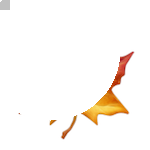
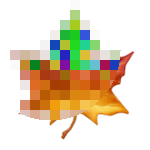
updated censor

diff --git a/censorColorPicker.cpp b/censorColorPicker.cpp
@@ -24,47 +24,42 @@ double PointDistance(PixelPoint a, PixelPoint b) {
   return sqrt(diff_x * diff_x + diff_y * diff_y);
 }
 
-void CensorColorPicker::computeAvg(PNG image, unsigned int xStart, unsigned int yStart) {
+HSLAPixel CensorColorPicker::computeAvg(PNG& image, unsigned int xStart, unsigned int yStart) {
   double hue = 0;
   double sat = 0;
   double lum = 0;
   double alp = 0;
-  // cout << image.getPixel(xStart,yStart) -> h << endl;
-  for (unsigned int x = xStart; x < blockwidth; x++) {
-    for (unsigned int y = yStart; y < blockwidth; y++) {
+  for (unsigned int x = xStart; x < xStart + blockwidth; x++) {
+    for (unsigned int y = yStart; y < yStart + blockwidth; y++) {
       hue += image.getPixel(x, y)->h;
       sat += image.getPixel(x, y)->s;
       lum += image.getPixel(x, y)->l;
       alp += image.getPixel(x, y)->a;
     }
   }
-  hue = hue / (blockwidth^2);
-  sat = sat / (blockwidth^2);
-  lum = lum / (blockwidth^2);
-  alp = alp / (blockwidth^2);
-
-  // cout << hue << endl;
-  // cout << sat << endl;
-  // cout << lum << endl;
-  // cout << alp << endl;
+  hue = hue / (blockwidth * blockwidth);
+  sat = sat / (blockwidth * blockwidth);
+  lum = lum / (blockwidth * blockwidth);
+  alp = alp / (blockwidth * blockwidth);
 
   HSLAPixel *pixel = new HSLAPixel(hue, sat, lum, alp);
-  newPixel = *pixel;
+  HSLAPixel temp;
+  temp = *pixel;
   delete pixel;
+  return temp;
+
 }
 
-void CensorColorPicker::mosaic(PNG image) {
+void CensorColorPicker::mosaic(PNG& image) {
   PNG *mosaic = new PNG(image.width(), image.height());
   for (unsigned int x = 0; x < image.width(); x++) {
     for (unsigned int y = 0; y < image.height(); y++) {
       int xStart = x - (x % blockwidth);
       int yStart = y - (y % blockwidth);
-      computeAvg(image, xStart, yStart);
-      HSLAPixel avgPixel  = newPixel;
-      *(*mosaic).getPixel(x, y) = avgPixel;
+      *(*mosaic).getPixel(x, y) = computeAvg(image, xStart, yStart);
     }
   }
-  newImage = *mosaic;
+  blockyimg = *mosaic;
   delete mosaic;
 }
 
@@ -75,8 +70,8 @@ CensorColorPicker::CensorColorPicker(unsigned int b_width, PixelPoint ctr, unsig
   center = ctr;
   radius = rad;
   img = inputimage;
-  mosaic(img);
-  blockyimg = newImage;
+  newimg = inputimage;
+  mosaic(newimg);
 }
 
 HSLAPixel CensorColorPicker::operator()(PixelPoint p)
@@ -86,5 +81,5 @@ HSLAPixel CensorColorPicker::operator()(PixelPoint p)
     return *blockyimg.getPixel(p.x, p.y);
   } else {
     return *img.getPixel(p.x, p.y);
-  }
+ }
 }

diff --git a/censorColorPicker.h b/censorColorPicker.h
@@ -53,9 +53,9 @@ class CensorColorPicker : public ColorPicker
     */
     virtual HSLAPixel operator()(PixelPoint p);
 
-    void mosaic(PNG image);
+    void mosaic(PNG& image);
 
-    void computeAvg(PNG image, unsigned int xStart, unsigned int yStart);
+    HSLAPixel computeAvg(PNG& image, unsigned int xStart, unsigned int yStart);
 
   private:
     unsigned int blockwidth; // width of a mosaic block in pixels.
@@ -63,8 +63,8 @@ class CensorColorPicker : public ColorPicker
     unsigned int radius;     // maximum pixel distance away from center where the mosaic color will be applied
     PNG img;                 // Original image used in flood fill algorithm
     PNG blockyimg;           // fully block-ified version of the original image, computed once at creation time
-    PNG newImage;
     HSLAPixel newPixel;
+    PNG newimg;
 };
 
 #endif
